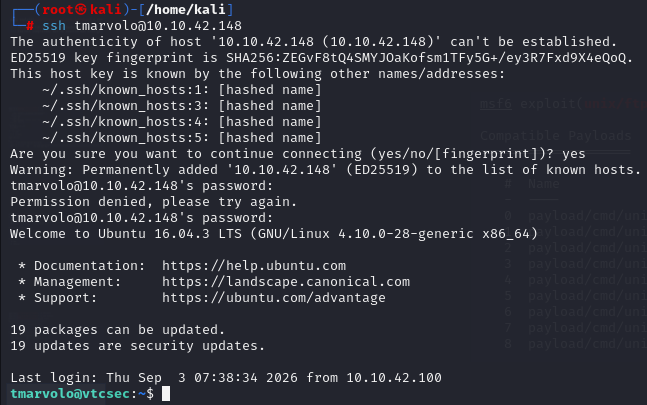
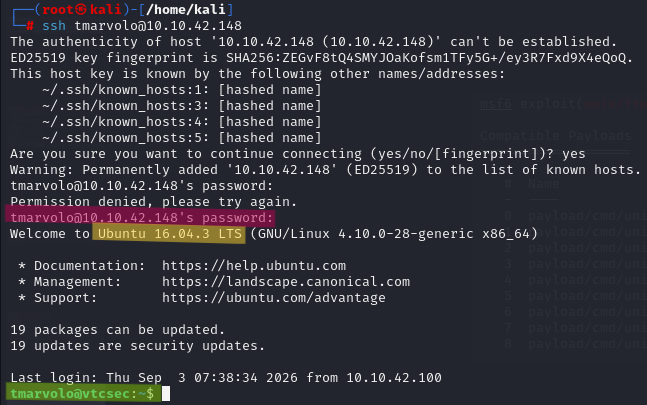
etape 10 11 et note

Changed region(s): [[0.0, 0.5037, 0.4328, 0.6222], [0.0, 0.9185, 0.2473, 1.0]]

diff --git a/Projet_PentestV1_5.html b/Projet_PentestV1_5.html
@@ -591,11 +591,22 @@
     </section>
     <section class="col p-1">
       <p class="white-txt m-3">
-        Parmi les comptes dont on a cassé le mot de passe figure celui de l'<b>administrateur réseau</b> de la machine.
+        Parmi les comptes dont on a cassé le mot de passe figure celui de l'<b>administrateur réseau</b> de la machine : <b>tmarvolo</b>.
         On s'y connecte : contrairement au compte créé par l'exploit, c'est un compte légitime et discret, ce qui nous
-        offre un accès durable et crédible au système.
+        offre un accès durable et crédible au système. Pour ce connecter on va établir une connexion ssh entre notre machine et 
+        et la cible <i>(à noter que cette connexion reste toujours suspect vis à vis des logs car notre machine reste inconnue au leur)</i>.
       </p>
-      <code class="pentest-cmd m-3"><span class="prompt">$ </span>ssh &lt;admin&gt;@10.10.42.176</code>
+      <code class="pentest-cmd m-3"><span class="prompt">$ </span>ssh tmarvolo@10.10.42.176</code>
+      <ul class="white-txt m-3">
+        <li><code>ssh</code> Pour établir une connexion ssh.</li>
+        <li><code>tmarvolo</code> Compte que l'on veut utiliser pour se connecter à la machine.</li>
+        <li><code>@10.10.42.176</code> Spécifie l'address ip de la cible'.</li>
+      </ul>
+      <p class="white-txt m-3">
+        Après avoir rentré le mot de passe que nous avons craqué dans le champs en rouge, nous pouvons voir que nous somme bien
+        connecté en tant que <b>tmarvolo</b> grâce au prompt en vert. De plus nous pouvons de nouveau constater la version de l'os 
+        utilisé <b>Ubuntu 16.04.3</b>.
+      </p>
     </section>
     <section class="col p-1">
       <h2 class="white-txt p-4">
@@ -619,11 +630,19 @@
     </section>
     <section class="col p-1">
       <p class="dark-txt m-3">
-        Pour démontrer la prise de contrôle totale, on change le mot de passe du compte administrateur avec
-        <code>passwd</code>. Dans un cadre pédagogique, l'action est documentée ; en mission réelle, elle ne serait
-        jamais menée sans un mandat explicite, car elle prive le propriétaire légitime de son accès.
+        Pour rendre plus difficile à l'adiministrateur du serveur de pouvoir compromettre nos action on change son 
+        mot de passe avec la command <code>passwd</code>. De plus cela va nous donner le temps d'étendre la compromissions
+        des systèmes de la cible <i>(et potentiellement dans un cas avec d'autre machine l'étendre au autre machine)</i>.
       </p>
-      <code class="pentest-cmd m-3"><span class="prompt"># </span>passwd &lt;admin&gt;</code>
+      <code class="pentest-cmd m-3"><span class="prompt">$ </span>passwd tmarvolo</code>
+      <ul class="dark-txt m-3">
+        <li><code>passwd</code> Commande bash pour changer le mot de passe d'un utilisateur.</li>
+        <li><code>tmarvolo</code> Utilisateur dont on veut changer le mot de passe.</li>
+      </ul>
+      <p class="dark-txt m-3">
+        Après avoir taper le mot de passe de tmarvolo nous pouvons taper le nouveau mot de passe. 
+        Le champ en jaune nous indique que le mot de passe à bien été changé.
+      </p>
     </section>
     <section class="col p-1">
       <img src="img/pentest_illustration/etape11.png" class="card-img-top p-2" alt="Changement de mot de passe">
@@ -946,6 +965,9 @@
       <p class="dark-txt">
         Chaque faille exploitée correspond à une contre-mesure concrète. C'est l'objectif réel de ce pentest :
         <b>corriger</b> le serveur.
+      </p>
+      <p class="dark-txt">
+        <span class="badge rounded-pill bg-danger badge-vuln">NOTE : </span> Nous avons eu un problème avec la première cible et avons du nous rabattre sur celle de remplacement <i>(ce qui cause certaine incohérence avec les addresses ip)</i>.
       </p>
     </section>
   </article>
